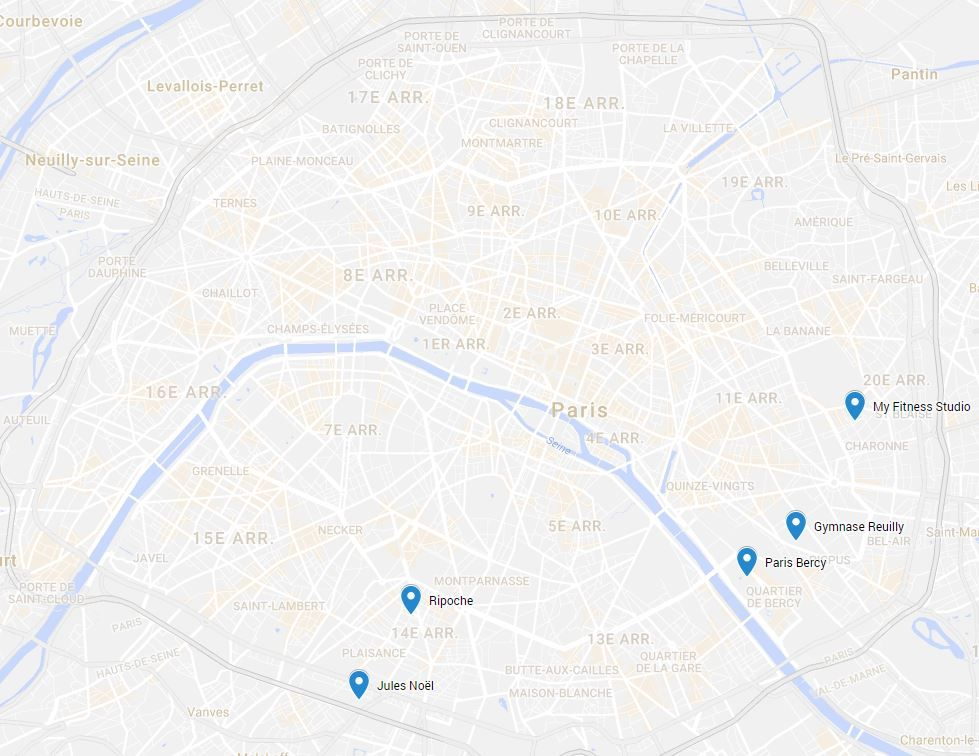
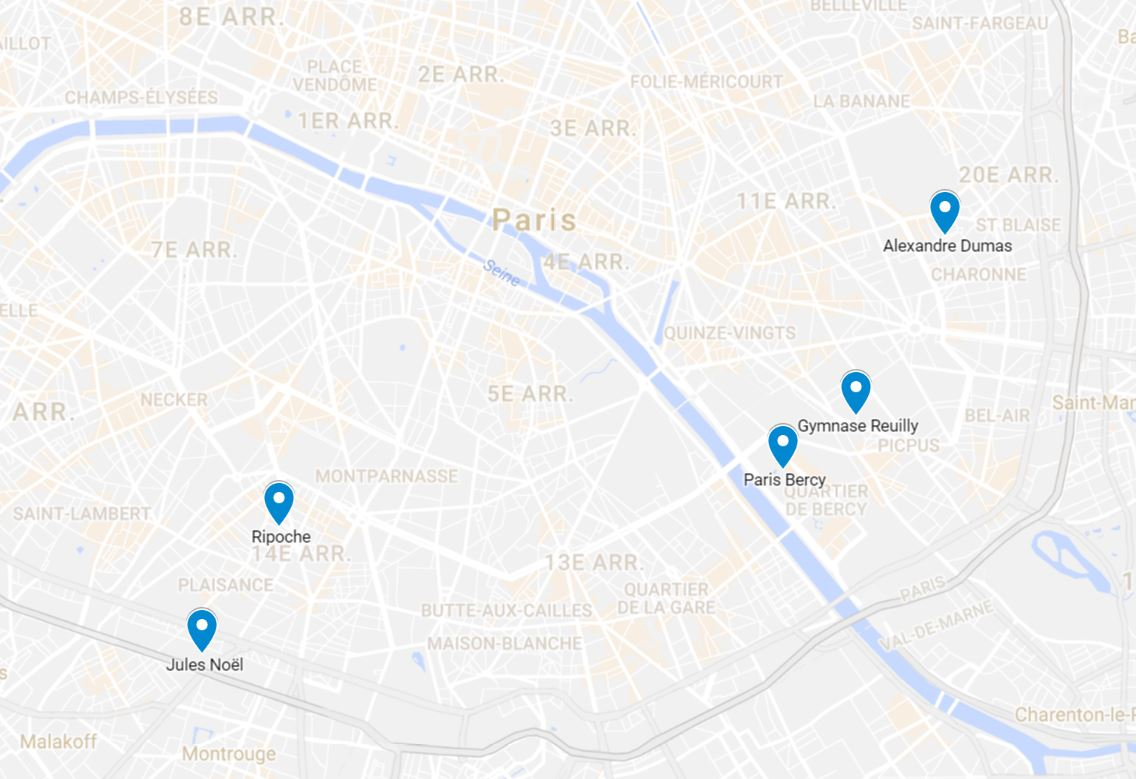
feat(content): add pics

diff --git a/src/pages/salles.js b/src/pages/salles.js
@@ -93,7 +93,7 @@ class Salles extends React.Component {
     this.salles = [
       {
         id: 'dumas',
-        name: 'My Fitness Studio',
+        name: 'Alexandre Dumas',
         street: '91 Rue Alexandre Dumas',
         zipCode: '75020',
         city: 'PARIS',
